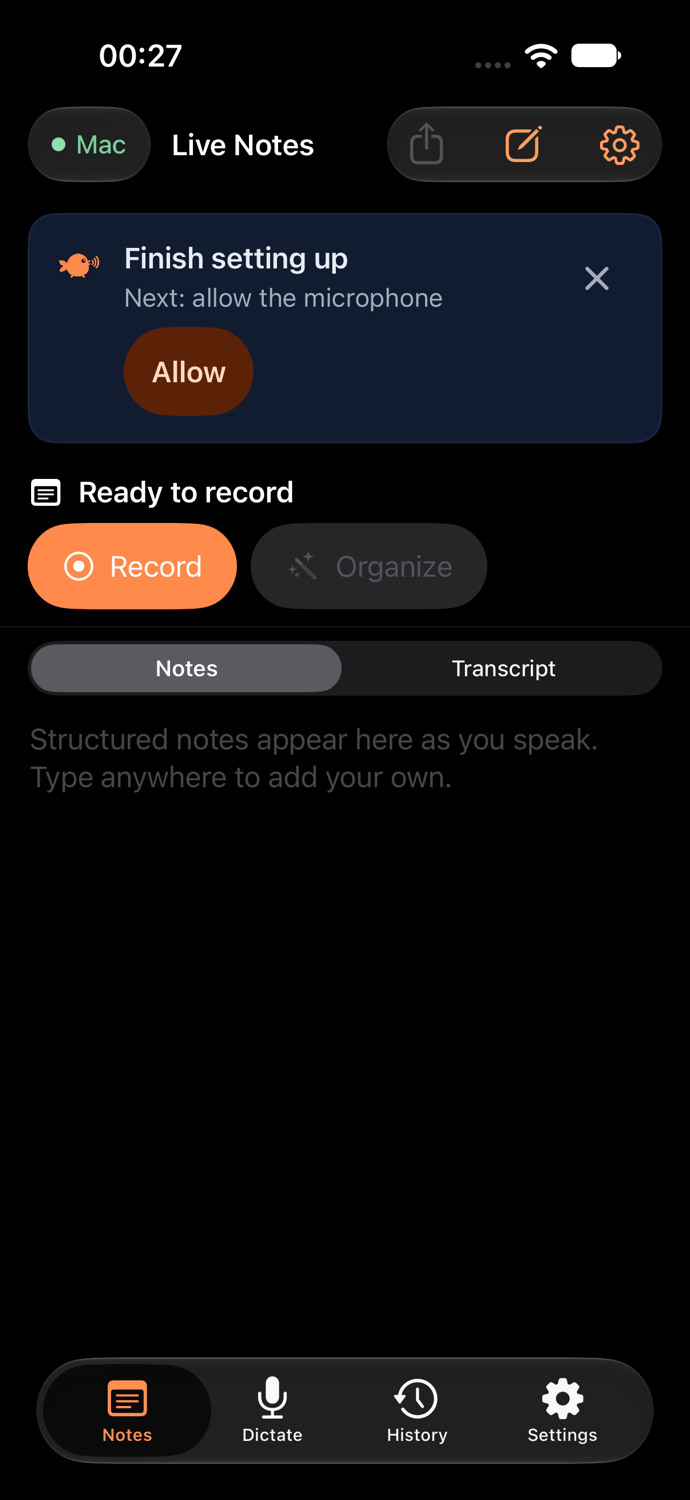
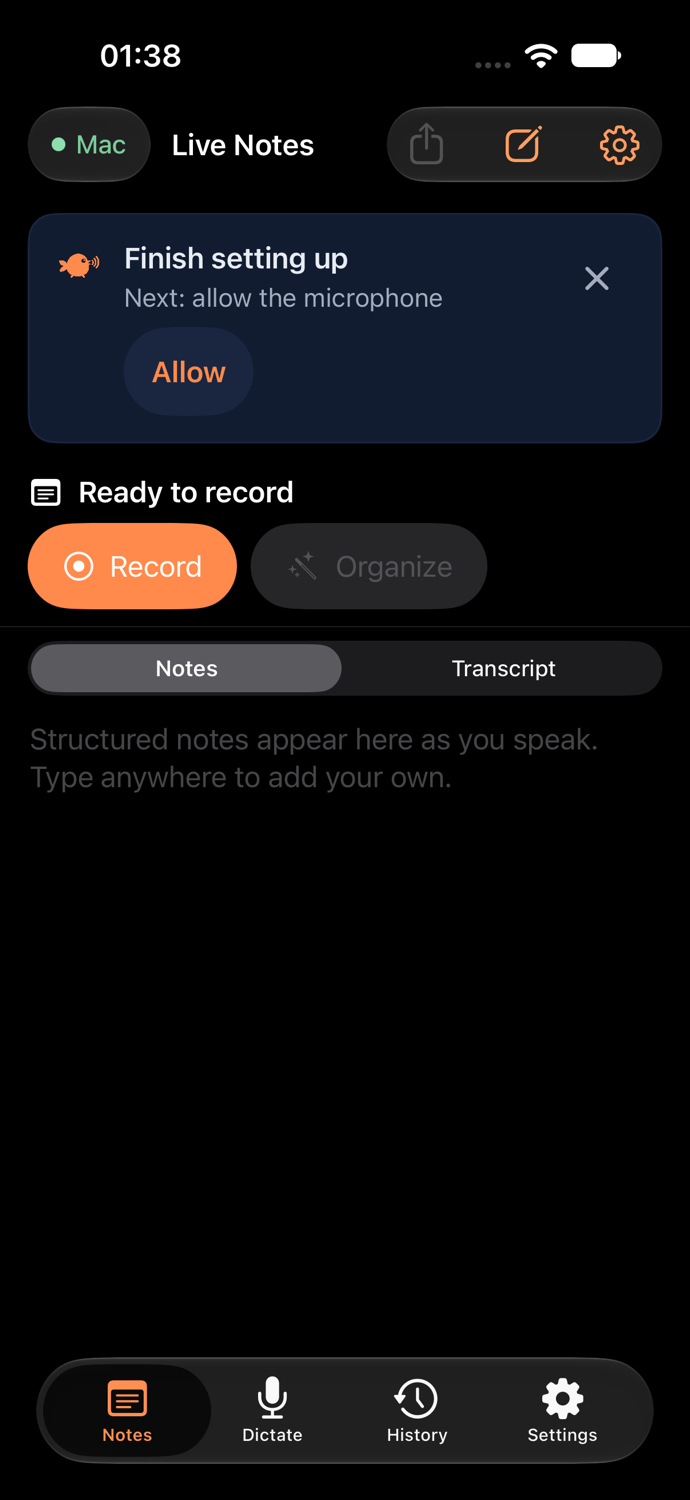
fix(ios): dark tonal fills, setup card reset, AX5/Reduce-Motion captures (#192) (#209)
- PondTonalButtonStyle and the onboarding step badges use surfaceRaised with
  koi in dark (the dark koiContainer read muddy); light keeps koiContainer.
- Settings → Show setup again also brings back a dismissed setup card.
- Re-shot iPhone dark; added AX5 and Reduce Motion captures.

Closes #192

Changed region(s): [[0.1826, 0.2147, 0.3652, 0.276], [0.1522, 0.0307, 0.2739, 0.0613]]

diff --git a/ios/App/PondComponents.swift b/ios/App/PondComponents.swift
@@ -23,15 +23,17 @@ struct PondPrimaryButtonStyle: ButtonStyle {
     }
 }
 
-/// A tonal (koiContainer) capsule: secondary actions that still matter, such as Start keyboard session.
+/// A tonal capsule for secondary actions that still matter (Start keyboard session, a setup fix): koiContainer
+/// in light; in dark a raised pond surface with koi text, as on Mac and Android (the dark koiContainer reads muddy).
 struct PondTonalButtonStyle: ButtonStyle {
     @Environment(\.isEnabled) private var enabled
+    @Environment(\.colorScheme) private var scheme
     func makeBody(configuration: Configuration) -> some View {
         configuration.label
             .font(.body.weight(.semibold)).multilineTextAlignment(.center)
-            .foregroundStyle(Color.chirp.onKoiContainer)
+            .foregroundStyle(scheme == .dark ? Color.chirp.koi : Color.chirp.onKoiContainer)
             .frame(minHeight: 44).padding(.horizontal, ChirpSpacing.s16).padding(.vertical, ChirpSpacing.s4)
-            .background(Color.chirp.koiContainer, in: Capsule())
+            .background(scheme == .dark ? Color.chirp.surfaceRaised : Color.chirp.koiContainer, in: Capsule())
             .opacity(enabled ? (configuration.isPressed ? 0.8 : 1) : 0.45)
             .contentShape(Capsule())
     }

diff --git a/ios/App/Onboarding.swift b/ios/App/Onboarding.swift
@@ -20,6 +20,7 @@ struct Onboarding: View {
     @Environment(\.horizontalSizeClass) private var sizeClass
     @Environment(\.accessibilityReduceMotion) private var reduceMotion
     @Environment(\.dynamicTypeSize) private var typeSize
+    @Environment(\.colorScheme) private var scheme
 
     var body: some View {
         GeometryReader { proxy in
@@ -211,9 +212,9 @@ struct Onboarding: View {
 
     private func badge(_ symbol: String, done: Bool) -> some View {
         Image(systemName: symbol).font(.system(size: 30, weight: .semibold))
-            .foregroundStyle(done ? Color.chirp.lily : Color.chirp.onKoiContainer)
+            .foregroundStyle(done ? Color.chirp.lily : scheme == .dark ? Color.chirp.koi : Color.chirp.onKoiContainer)
             .frame(width: 72, height: 72)
-            .background(done ? Color.chirp.lily.opacity(0.16) : Color.chirp.koiContainer, in: Circle())
+            .background(done ? Color.chirp.lily.opacity(0.16) : scheme == .dark ? Color.chirp.surfaceRaised : Color.chirp.koiContainer, in: Circle())
             .accessibilityHidden(true)
     }
 

diff --git a/ios/App/ChirpApp.swift b/ios/App/ChirpApp.swift
@@ -224,7 +224,7 @@ struct ChirpRootView: View {
                     .buttonStyle(.capsuleChip).accessibilityIdentifier("chirp.settings.connection")
                 NavigationLink(value: SettingsRoute.styles) { Label("Styles", systemImage: "sparkles") }
                     .buttonStyle(.capsuleChip).accessibilityIdentifier("chirp.settings.styles")
-                Button("Show setup again", systemImage: "arrow.counterclockwise") { onboarding = true }
+                Button("Show setup again", systemImage: "arrow.counterclockwise") { setupDismissed = false; onboarding = true }
                     .buttonStyle(.capsuleChip).accessibilityIdentifier("chirp.settings.showSetup")
             }
             .padding(.horizontal, ChirpSpacing.s16).padding(.vertical, ChirpSpacing.s8)
